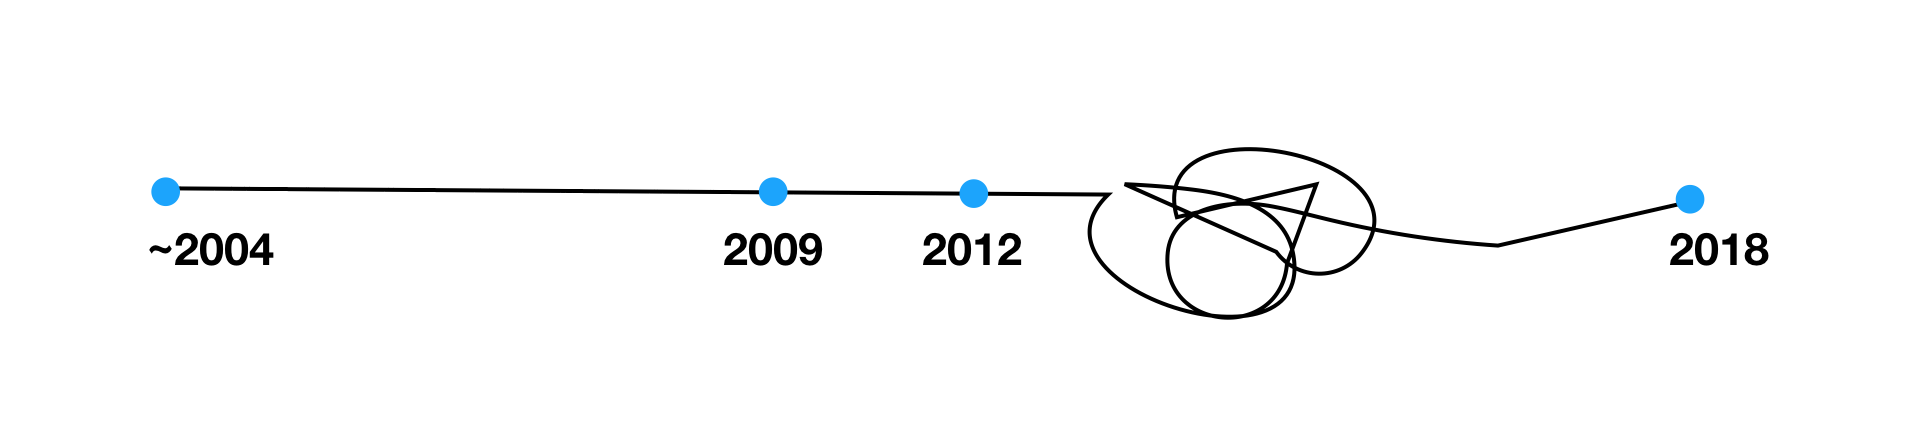
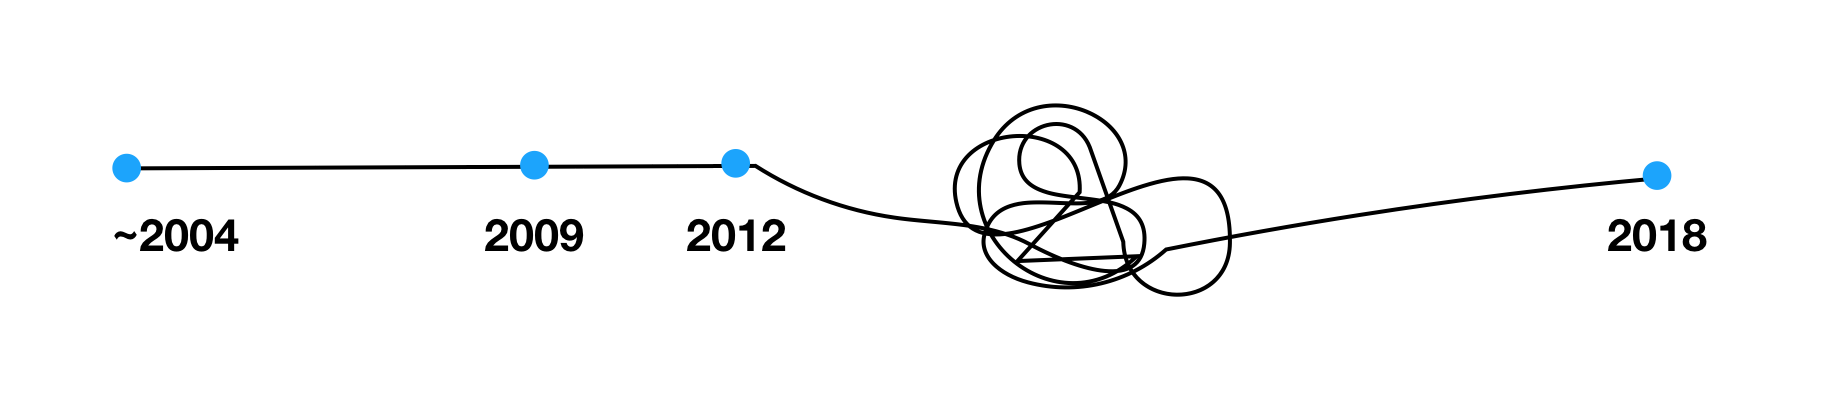
Add alt descriptions to images; Replace one of the images AND PUBLISH

diff --git a/_posts/2018-12-13-blogging-and-me.html b/_posts/2018-12-13-blogging-and-me.html
@@ -1,9 +1,9 @@
 ---
 layout: post
 title: Blogging and me
-date: 2018-12-13 08:29:05.000000000 +00:00
+date: 2018-12-14 08:29:05.000000000 +00:00
 type: post
-published: false
+published: true
 status: publish
 categories:
 - IndieWeb
@@ -22,7 +22,7 @@ categories:
 
 <p>I think this an accurate timeline of my blogging life:</p>
 
-<p class="p-img"><img class="post-image" src="{{ site.baseurl }}/assets/13_12_2018/timeline_overview.png" alt="Timeline view from 2004 to 2018 where a scribble happens between 2012 and 2014" /></p>
+<p class="p-img"><img class="post-image" src="{{ site.baseurl }}/assets/13_12_2018/timeline_overview.png" alt="Timeline view from 2004 to 2018. After 2012 the line goes down and a scribble happens between 2012 and 2018" /></p>
 
 <p>Until 2007 I had done it all: Geocities, FreeWebs, self hosting with cuteNewsPhp, phpBB forums, Coppermine Galleries, Wordpress, dot TK domains etc. I learned so much! I was always building things. I remember loving Dynamic Drive - (yes, I wanted a dinosaur cursor on my website and yes my scrollbars had the colours customised). I was just a kid who was building things for fun on the internet.</p>
 
@@ -71,13 +71,18 @@ categories:
 <p>But, thanks to social media, I very slowly started to find some people that would tweet things I could finally relate to. The following ones are more recent examples posted this year. There were a few more tweets from other people that were very important to me but because they were posted around 2013 -2015 I just couldn’t find them anymore. Nether-less, this is a beautiful example of someone sharing something I so much related to:</p>
 
 <p class="p-img">
-  <img class="post-image" src="{{ site.baseurl }}/assets/13_12_2018/tweet01.png" alt="Tweet" />
-  <a href="https://twitter.com/sarah_edo/status/1013427276350873600" target="_blank">View in Twitter</a>
+  <img class="post-image" src="{{ site.baseurl }}/assets/13_12_2018/tweet01.png" aria-labelledby="tweet01" />
+  <p id="tweet01">
+    <a href="https://twitter.com/sarah_edo/status/1013427276350873600" target="_blank">Tweet from Sarah Drasner</a>: “I miss the useless web. I miss your grandpa’s blog. I miss weird web art projects that trolled me. I miss fan pages for things like hippos. I wish I didn’t feel like the web was collapsing into just a few sites plus a thousand resumes.”
+  </p>
 </p>
 
 <p class="p-img">
-  <img class="post-image" src="{{ site.baseurl }}/assets/13_12_2018/tweet02.png" alt="Tweet" />
-  <a href="https://twitter.com/octothorpe/status/951132949386276864" target="_blank">View in Twitter</a>
+  <img class="post-image" src="{{ site.baseurl }}/assets/13_12_2018/tweet02.png" aria-labelledby="tweet02" />
+
+  <p id="tweet02">
+    <a href="https://twitter.com/octothorpe/status/951132949386276864" target="_blank">Tweet from @octothorpe</a>: “holy fuck, people. 60+ serialised tweets  are a terrible, unusable, unreadable mess. Put that shit on your blog.”
+  </p>
 </p>
 
 <p><a href="http://www.patrickrhone.net/4480-2/" target="_blank">This post</a> by Patrick is exactly how I feel, especially this quote:</p>
@@ -92,8 +97,10 @@ categories:
 <p>I found a tweet (actually a thread) that puts it into better words than I could:</p>
 
 <p class="p-img">
-  <img class="post-image" src="{{ site.baseurl }}/assets/13_12_2018/tweet03.png" alt="Tweet" />
-  <a href="https://twitter.com/Fox0x01/status/951047110618689537" target="_blank">View in Twitter</a>
+  <img class="post-image" src="{{ site.baseurl }}/assets/13_12_2018/tweet03.png" aria-labelledby="tweet03" />
+  <p id="tweet03">
+    <a href="https://twitter.com/Fox0x01/status/951047110618689537" target="_blank">Tweet from Azeria</a>: “I regularly get messages from people who are afraid to publish their own technical blog, because they’re afraid to be judged or think people will say it’s useless bc it’s nothing innovative or elite.”
+  </p>
 </p>
 
 <p>Eventually my life moved on and things improved and I slowly started to think about blogging again. I wanted to share what I know about tech. Unlike my teenage years this became my occupation for about 8 hours per day but I would always stop myself because I was junior. I thought anything I would say, it would be already known my everyone. Which leads me to my very own FAQ:</p>
@@ -109,8 +116,11 @@ categories:
 <p>This advice from Jeremy Keith to A Book Apart also puts it perfectly:</p>
 
 <p class="p-img">
-  <img class="post-image" src="{{ site.baseurl }}/assets/13_12_2018/tweet04.png" alt="Tweet" />
-  <a href="https://twitter.com/abookapart/status/1017760817838788608" target="_blank">View in Twitter</a>
+  <img class="post-image" src="{{ site.baseurl }}/assets/13_12_2018/tweet04.png" aria-labelledby="tweet04"/>
+
+  <p id="tweet04">
+    <a href="https://twitter.com/abookapart/status/1017760817838788608" target="_blank">Tweet from A Book Apart quoting @adactio</a>: “Share what you learn. And the best time to share is while you’re learning it. (You’ll have a voice in your head saying ‘Everyone knows this already’... Ignore that voice.)”
+  </p>
 </p>
 
 
@@ -155,8 +165,10 @@ Nobody has time to check your code source and almost nobody cares. If anyone doe
 <p>A while back I found the following tweet:</p>
 
 <p class="p-img">
-  <img class="post-image" src="{{ site.baseurl }}/assets/13_12_2018/tweet05.png" alt="Tweet" />
-  <a href="https://twitter.com/HeyChelseaTroy/status/1051854037417635841" target="_blank">View in Twitter</a>
+  <img class="post-image" src="{{ site.baseurl }}/assets/13_12_2018/tweet05.png" aria-labelledby="tweet05" />
+  <p id="tweet05">
+    <a href="https://twitter.com/HeyChelseaTroy/status/1051854037417635841" target="_blank">Tweet from @HeyChelseaTroy</a>: “I started a blog years ago to record what I learned about programming. As I have advanced, my posts have begun to give me credibility with technologists I don't personally know. That blog has given me a writing voice. But it has also protected my speaking voice.”
+  </p>
 </p>
 
 <p>I believe you should blog because you want to, not because you think you must. And yes, while you do it some great consequences can come out of it (like the tweet above points out).</p>
@@ -179,7 +191,7 @@ Nobody has time to check your code source and almost nobody cares. If anyone doe
 <p>Back to this:</p>
 
 <p class="p-img">
-  <img class="post-image" src="{{ site.baseurl }}/assets/13_12_2018/timeline_2.png" alt="Tweet" />
+  <img class="post-image" src="{{ site.baseurl }}/assets/13_12_2018/timeline_2.png" alt="Timeline zoomed in between 2012 and 2018 giving emphasis to the scribble in between" />
 </p>
 
 <p>The line went up. I left places that weren’t good for me. I unfollowed people that weren’t good for me. This didn’t happen from one day to another. My current blog was created in 2014. Very slowly.</p>
